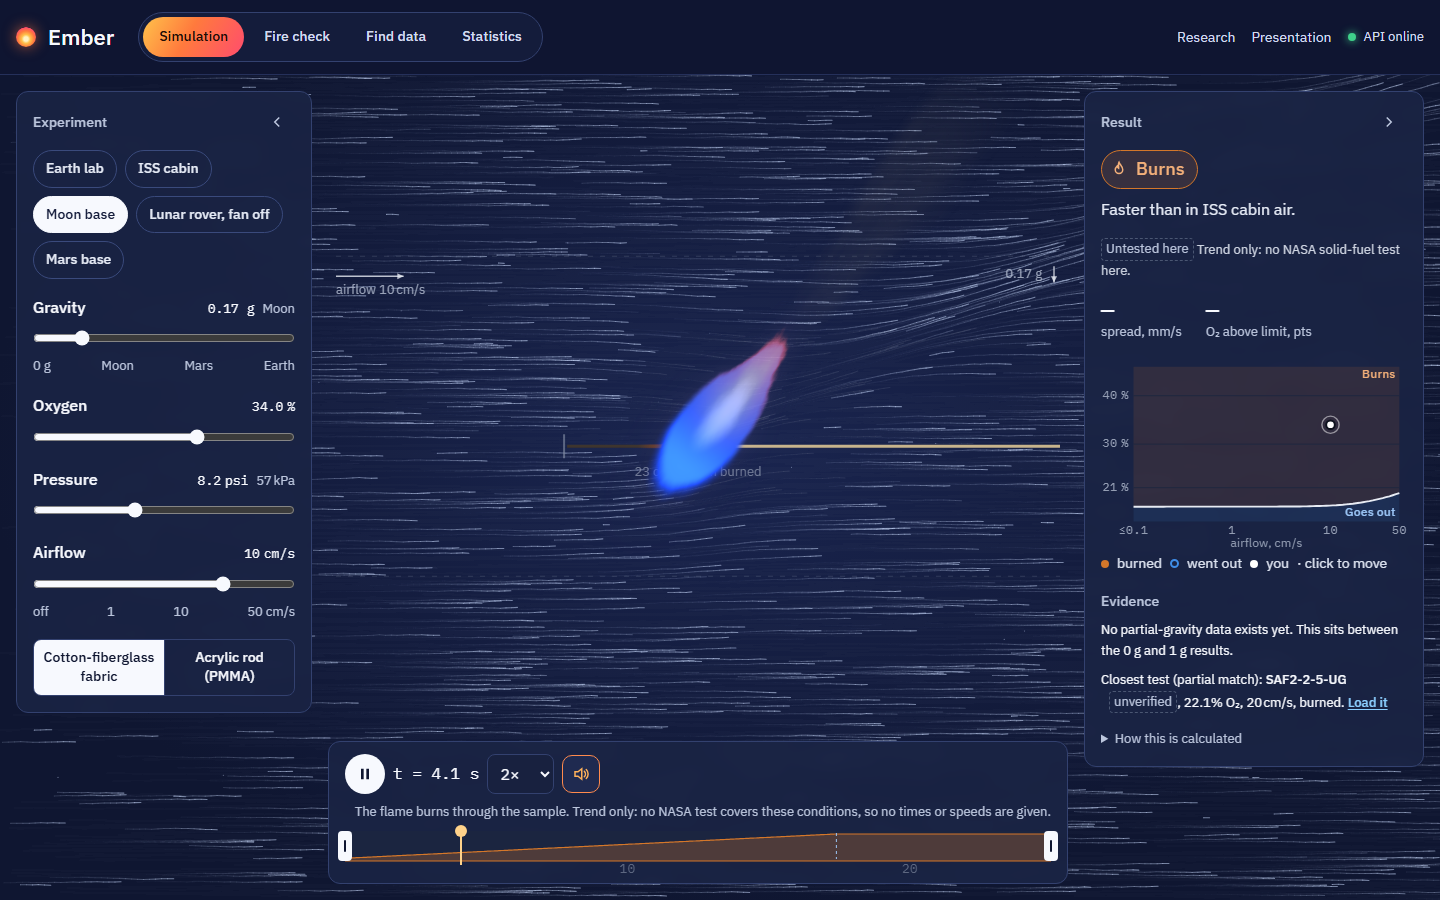
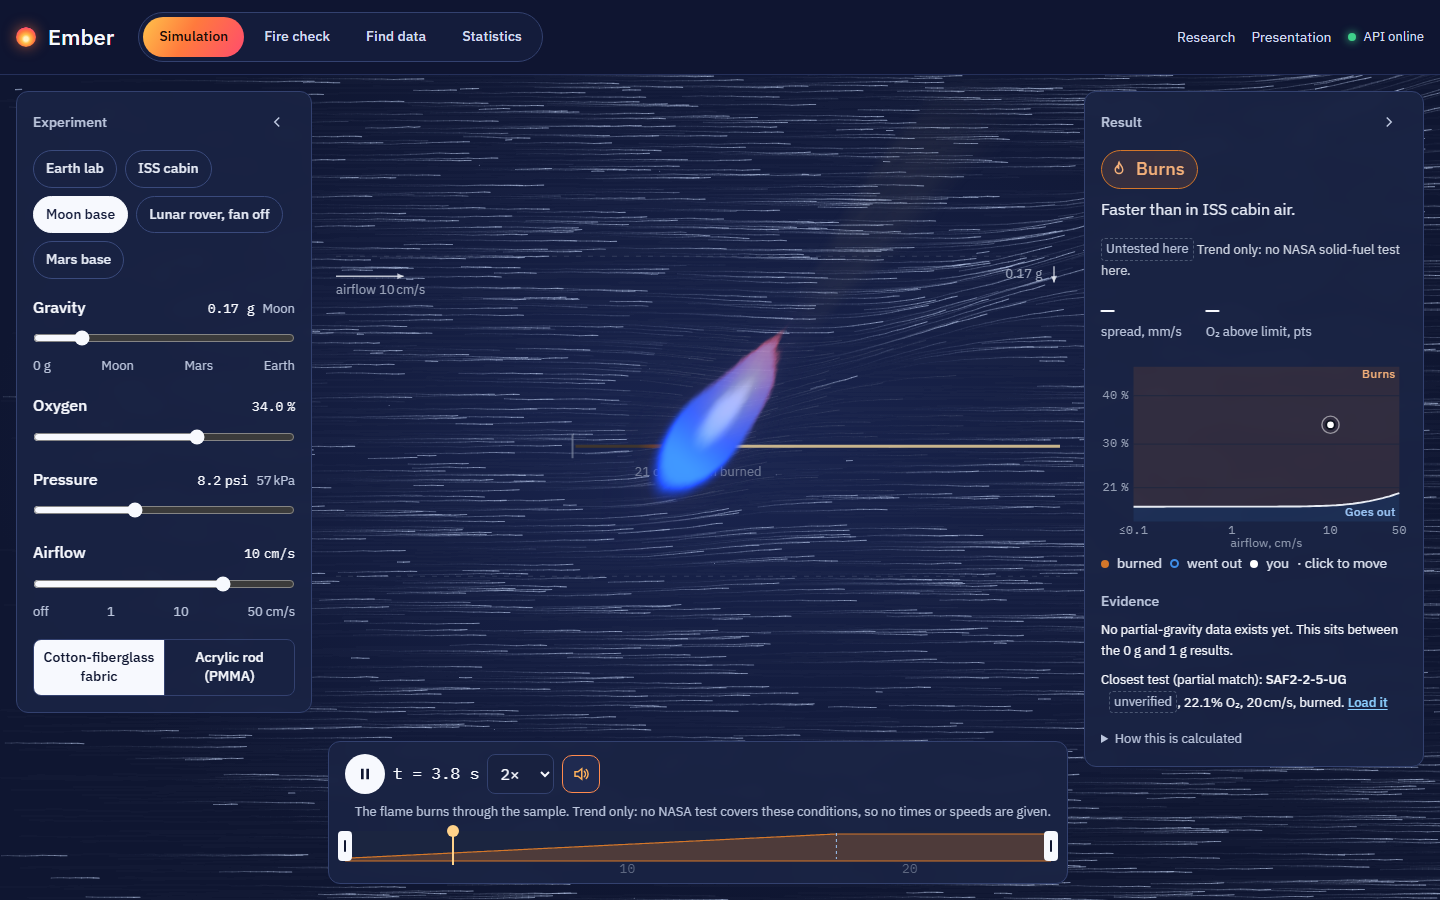
README and CITATION point at the renamed repository (Hassanbil999/Ember); readme_assets.py passes lint

diff --git a/scripts/readme_assets.py b/scripts/readme_assets.py
@@ -39,18 +39,29 @@ def screens_and_gif():
         b = p.chromium.launch()
         pg = b.new_page(viewport={"width": 1440, "height": 900})
         # stills
-        pg.goto(BASE + SIM); pg.wait_for_timeout(2500)
-        pg.locator("#igniteBtn").click(); pg.wait_for_timeout(2500)
+        pg.goto(BASE + SIM)
+        pg.wait_for_timeout(2500)
+        pg.locator("#igniteBtn").click()
+        pg.wait_for_timeout(2500)
         pg.screenshot(path=str(OUT / "screen-simulation.png"))
-        pg.goto(BASE + CHECK); pg.wait_for_timeout(3000)
+        pg.goto(BASE + CHECK)
+        pg.wait_for_timeout(3000)
         pg.screenshot(path=str(OUT / "screen-fire-check.png"))
-        pg.goto(BASE + "/engine/stats"); pg.wait_for_timeout(3000)
+        pg.goto(BASE + "/engine/stats")
+        pg.wait_for_timeout(3000)
         pg.screenshot(path=str(OUT / "screen-statistics.png"))
         # the GIF, about 9 s: still pages are one frame held, the burning flame is animated
-        pg.goto(BASE + "/"); pg.wait_for_timeout(2500); grab(pg, hold=1800)
-        pg.goto(BASE + SIM); pg.wait_for_timeout(2500); grab(pg, hold=1000)
-        pg.locator("#igniteBtn").click(); grab(pg, 12, 250)
-        pg.goto(BASE + CHECK); pg.wait_for_timeout(2500); grab(pg, hold=3200)
+        pg.goto(BASE + "/")
+        pg.wait_for_timeout(2500)
+        grab(pg, hold=1800)
+        pg.goto(BASE + SIM)
+        pg.wait_for_timeout(2500)
+        grab(pg, hold=1000)
+        pg.locator("#igniteBtn").click()
+        grab(pg, 12, 250)
+        pg.goto(BASE + CHECK)
+        pg.wait_for_timeout(2500)
+        grab(pg, hold=3200)
         b.close()
     pal = [f.quantize(colors=128, method=Image.Quantize.MEDIANCUT, dither=Image.Dither.NONE) for f in frames]
     pal[0].save(OUT / "hero.gif", save_all=True, append_images=pal[1:], duration=durations, loop=0, optimize=True)
@@ -88,8 +99,11 @@ def validation_chart():
     y = range(len(labels))
     a2.errorbar([a for _, a, _ in gas], [i + 0.15 for i in y], xerr=[s for _, _, s in gas], fmt="o", color="#d4561e", capsize=3, label="gas flames (CFI-G, 133 tests)")
     a2.errorbar([a for _, a, _ in drop], [i - 0.15 for i in y], xerr=[s for _, _, s in drop], fmt="s", color="#2a64c9", capsize=3, label="fuel drops (FLEX, 206 tests)")
-    a2.axvline(0.5, ls="--", color="#888"); a2.text(0.505, -0.6, "baseline (0.5)", fontsize=9, color="#666")
-    a2.set_yticks(list(y), labels); a2.set_xlim(0.45, 0.95); a2.set_ylim(-0.8, len(labels) - 0.4)
+    a2.axvline(0.5, ls="--", color="#888")
+    a2.text(0.505, -0.6, "baseline (0.5)", fontsize=9, color="#666")
+    a2.set_yticks(list(y), labels)
+    a2.set_xlim(0.45, 0.95)
+    a2.set_ylim(-0.8, len(labels) - 0.4)
     a2.set(xlabel="AUC on NASA test campaigns the model never saw", title="(b) Models vs baseline (10 partitions)")
     a2.legend(loc="lower right", fontsize=9, frameon=False)
     fig.tight_layout()

diff --git a/README.md b/README.md
@@ -94,8 +94,8 @@ More in [docs/LIMITS.md](docs/LIMITS.md).
 You need Python 3.11+ and Node 20+. No API keys and no login.
 
 ```
-git clone https://github.com/Hassanbil999/freefall-atlas.git
-cd freefall-atlas
+git clone https://github.com/Hassanbil999/Ember.git
+cd Ember
 python run.py start          # installs what is missing, loads the data, trains the models → http://localhost:8000
 ```
 
